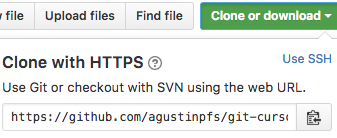
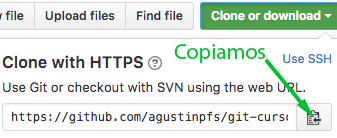
update articles

Changed region(s): [[0.5045, 0.3188, 0.9496, 0.8406]]

diff --git a/articles/git/localhost/fork-repo.md b/articles/git/localhost/fork-repo.md
@@ -9,10 +9,10 @@
 
 #Fork un repositorio.
 
-==Fork copia cualquier repositorio público de Github a nuestra cuenta. 
+==Fork copia cualquier repositorio público de GitHub en nuestra cuenta. 
 Este se agregará a nuestra lista de repositorios en GitHub.==
 
-Fork nos permite trabajar sobre cualquier repositorio público de Github, sin afectar el original.
+Fork nos permite trabajar sobre cualquier repositorio público de GitHub, sin afectar el original.
 
 ![alt](http://localhost:2368/assets/images/fork-git.png)
 
@@ -22,24 +22,27 @@ La **diferencia entre fork y clone** es que fork es una copia de un repositorio 
 Fork nos permite editar cualquier proyecto con las herramientas de colaboración que nos ofrece GitHub. Por ejemplo trabajar remotamente con miembros de nuestro equipo sobre cualquier proyecto público y proponer cambios haciendo [pull requests](http://localhost:2368/pull-request).
 
 
-
+<a name="ejemplo"></a>
 ###Mantener actualizado nuestro repositorio fork con el original(upstream).
 
-Para mantener actualizado nuestro fork, primero conectamos nuestro repo local con el original a través del comando:
+>`upstream` es el nombre que se le da al repositorio original a la hora de conectarlo con nuestro repositorio.
 
+Suponte que has hecho un clon del repositorio fork en tu computadora y estás trabajando en el proyecto.
 
-`git remote add upstream [url HTTPS o SSH del repositorio original]`
+Con `git remote add upstream [url HTTPS o SSH del repositorio original]` conectarás tu repositorio con el original. 
+
 <small>- Para usar SSH [genera la clave](http://localhost:2368/ssh-https-conexion-github) -</small>
 
+De esta manera con el comando `git fetch upstream` podrás saber si hubo cambios en el original. Si los hubo, con `git merge upstream/master` los puedes fusionar con tu repositorio.
 
-`upstream` es el nombre que se le da al repositorio original a la hora de hacer la conexión.
+Cuando subas tu cambios a GitHub con `git push origin master` tu repositorio fork estará actualizado.
 
 >Una conexión con `upstream` permite descargar los cambios efectuados en el repositorio original pero no permite cargar datos. 
 Igual podemos proponer cambios haciéndolos en nuestro fork y luego enviando un [pull requests](http://localhost:2368/pull-request).
 
 <br>
 
-###Ejemplo práctico:
+###Ejemplo práctico fork y upstream:
 
 Primero haces un fork al repositorio de nuestro ejemplo dándole al botón "fork".
 
@@ -51,15 +54,14 @@ Luego lo [clonas](http://localhost:2368/clonar-un-repositorio) en tu computadora
 
 `git clone https://github.com/tuNombreUsuario/practicasGit.git`
 
-Lo conectas con tu repositorio "fork"
 
-`git remote add origin https://github.com/tuNombreUsuario/practicasGit.git`
+Ya estás conectado con tu repositorio fork (origin).
 
-Ahora lo conectas con el original:
+Ahora lo conectas con el repositorio original (upstream):
 
 `git remote add upstream https://github.com/Pandawebs/practicasGit.git`
 
-Verificamos si se ha guardado las conexiones `origin` y `upstream`:
+Verificamos si se ha guardado las conexiones `origin` y `upstream` con:
 
 `git remote -v`
 
@@ -81,12 +83,9 @@ También podemos ver si ha habido cambios desde Github:
 
 ![alt](http://localhost:2368/assets/images/cambios-fork-original.png)
 
-
-
 Hacemos un merge si hubo cambios. Esto fusionará dichos cambios del repositorio original con nuestro repositorio local.
 
 `git merge upstream/master`
-
 
 Ya actualizado nuestro repositorio local podemos actualizar el fork de nuestra cuenta en GitHub:
 

diff --git a/articles/git/production/fork-repo.md b/articles/git/production/fork-repo.md
@@ -9,10 +9,10 @@
 
 #Fork un repositorio.
 
-==Fork copia cualquier repositorio público de Github a nuestra cuenta. 
+==Fork copia cualquier repositorio público de GitHub en nuestra cuenta. 
 Este se agregará a nuestra lista de repositorios en GitHub.==
 
-Fork nos permite trabajar sobre cualquier repositorio público de Github, sin afectar el original.
+Fork nos permite trabajar sobre cualquier repositorio público de GitHub, sin afectar el original.
 
 ![alt](http://pandawebs.net/assets/images/fork-git.png)
 
@@ -22,24 +22,27 @@ La **diferencia entre fork y clone** es que fork es una copia de un repositorio 
 Fork nos permite editar cualquier proyecto con las herramientas de colaboración que nos ofrece GitHub. Por ejemplo trabajar remotamente con miembros de nuestro equipo sobre cualquier proyecto público y proponer cambios haciendo [pull requests](http://pandawebs.net/pull-request).
 
 
-
+<a name="ejemplo"></a>
 ###Mantener actualizado nuestro repositorio fork con el original(upstream).
 
-Para mantener actualizado nuestro fork, primero conectamos nuestro repo local con el original a través del comando:
+>`upstream` es el nombre que se le da al repositorio original a la hora de conectarlo con nuestro repositorio.
 
+Suponte que has hecho un clon del repositorio fork en tu computadora y estás trabajando en el proyecto.
 
-`git remote add upstream [url HTTPS o SSH del repositorio original]`
+Con `git remote add upstream [url HTTPS o SSH del repositorio original]` conectarás tu repositorio con el original. 
+
 <small>- Para usar SSH [genera la clave](http://pandawebs.net/ssh-https-conexion-github) -</small>
 
+De esta manera con el comando `git fetch upstream` podrás saber si hubo cambios en el original. Si los hubo, con `git merge upstream/master` los puedes fusionar con tu repositorio.
 
-`upstream` es el nombre que se le da al repositorio original a la hora de hacer la conexión.
+Cuando subas tu cambios a GitHub con `git push origin master` tu repositorio fork estará actualizado.
 
 >Una conexión con `upstream` permite descargar los cambios efectuados en el repositorio original pero no permite cargar datos. 
 Igual podemos proponer cambios haciéndolos en nuestro fork y luego enviando un [pull requests](http://pandawebs.net/pull-request).
 
 <br>
 
-###Ejemplo práctico:
+###Ejemplo práctico fork y upstream:
 
 Primero haces un fork al repositorio de nuestro ejemplo dándole al botón "fork".
 
@@ -51,15 +54,14 @@ Luego lo [clonas](http://pandawebs.net/clonar-un-repositorio) en tu computadora:
 
 `git clone https://github.com/tuNombreUsuario/practicasGit.git`
 
-Lo conectas con tu repositorio "fork"
 
-`git remote add origin https://github.com/tuNombreUsuario/practicasGit.git`
+Ya estás conectado con tu repositorio fork (origin).
 
-Ahora lo conectas con el original:
+Ahora lo conectas con el repositorio original (upstream):
 
 `git remote add upstream https://github.com/Pandawebs/practicasGit.git`
 
-Verificamos si se ha guardado las conexiones `origin` y `upstream`:
+Verificamos si se ha guardado las conexiones `origin` y `upstream` con:
 
 `git remote -v`
 
@@ -81,12 +83,9 @@ También podemos ver si ha habido cambios desde Github:
 
 ![alt](http://pandawebs.net/assets/images/cambios-fork-original.png)
 
-
-
 Hacemos un merge si hubo cambios. Esto fusionará dichos cambios del repositorio original con nuestro repositorio local.
 
 `git merge upstream/master`
-
 
 Ya actualizado nuestro repositorio local podemos actualizar el fork de nuestra cuenta en GitHub:
 

diff --git a/articles/git/production/edit-pw.md b/articles/git/production/edit-pw.md
@@ -6,9 +6,9 @@
     <i>.</i>
   </div>
   <a href="http://pandawebs.net/git-github-elemental/">
-	  <div class="post-content_next-right">
-	    <p>Curso elemental de Git y GitHub</p>	    
-	  </div>
+    <div class="post-content_next-right">
+      <p>Curso elemental de Git y GitHub</p>      
+    </div>
   </a>
 </div>
 
@@ -101,7 +101,11 @@ del repositorio en nuestra cuenta.
 
 ![alt](http://pandawebs.net/assets/images/forked-PR-2.png)
 
-**3)** Abrimos la terminal en el directorio que vayamos a trabajar y lo clonamos:
+**3)** Copiamos la dirección url. Abrimos la terminal en el directorio que vayamos a trabajar y lo clonamos:
+
+Copiamos la dirección HTTPS o SSH [generar la clave SSH](http://pandawebs.net/ssh-https-conexion-github/ " target="_blank).
+
+![alt](http://pandawebs.net/assets/images/clonar-un-repositorio.png)
 
 `git clone https://github.com/tuCuenta/Tutoriales-Javascript.git`
 
@@ -115,26 +119,21 @@ del repositorio en nuestra cuenta.
 
 `cd Tutoriales-Javascript`
 
-**4)** Conectamos:
-
-`git remote add upstream https://github.com/Pandawebs/Tutoriales-Javascript.git`
-
-`git remote add origin https://github.com/tuCuenta/Tutoriales-Javascript.git`
 
 **5)** Creamos una rama. La llamaremos "propuesta-js":
 
 `git branch propuesta-js`
 
 
-**5)** Nos cambiamos a la nueva rama:
+**6)** Nos cambiamos a la nueva rama:
 
 `git checkout propuesta-js`
 
-**6)** Abrimos el archivo del artículo en nuestro editor de código y lo editamos.
+**7)** Abrimos el archivo del artículo en nuestro editor de código y lo editamos.
 
 ![alt](http://pandawebs.net/assets/images/editor-edit-pw.png)
 
-Lo guardamos y vamos a la terminal:
+Lo guardamos y volvemos a la terminal:
 
 Escribimos:
 
@@ -142,7 +141,7 @@ Escribimos:
 
 `git commit -m "actualizamos artículo javascript"`
 
-**7)** Subimos la nueva rama con los cambios al fork:
+**8)** Subimos la nueva rama con los cambios al fork:
 
 `git push origin propuesta-js`
 
@@ -150,17 +149,19 @@ Si usamos conexión HTTPS nos pedirá nombre de usuario y contraseña de GitHub.
 
 <small>Usar SSH [genera la clave](http://pandawebs.net/ssh-https-conexion-github).</small>
 
+**Ver:** [Mantener actualizado nuestro repositorio fork con el original(upstream)](http://pandawebs.net/fork-un-repositorio/#ejemplo)
 
+<br>
 
-###En Github 
+### Seguimos en GitHub 
 
-**8)** Elegimos la rama en la que hicimos el cambio para proponer.
+**9)** Elegimos la rama en la que hicimos el cambio para proponer.
 
 ![alt](http://pandawebs.net/assets/images/PR-elegir-rama-2.png)
 
 
 
-**9)** A la derecha del desplegable branch click a "new pull request"
+**10)** A la derecha del desplegable branch click a "new pull request"
 
 ![alt](http://pandawebs.net/assets/images/PR-nuevo-2.png)
 
@@ -172,7 +173,7 @@ Si usamos conexión HTTPS nos pedirá nombre de usuario y contraseña de GitHub.
 
 
 
-**10)** Ponemos título y descripción(opcional) a nuestro pull request y le damos click a
+**11)** Ponemos título y descripción(opcional) a nuestro pull request y le damos click a
 "Create pull request". 
 
 ![alt](http://pandawebs.net/assets/images/comment-pull-request.png)

diff --git a/articles/git/localhost/edit-pw.md b/articles/git/localhost/edit-pw.md
@@ -101,7 +101,11 @@ del repositorio en nuestra cuenta.
 
 ![alt](http://localhost:2368/assets/images/forked-PR-2.png)
 
-**3)** Abrimos la terminal en el directorio que vayamos a trabajar y lo clonamos:
+**3)** Copiamos la dirección url. Abrimos la terminal en el directorio que vayamos a trabajar y lo clonamos:
+
+Copiamos la dirección HTTPS o SSH [generar la clave SSH](http://localhost:2368/ssh-https-conexion-github/ " target="_blank).
+
+![alt](http://localhost:2368/assets/images/clonar-un-repositorio.png)
 
 `git clone https://github.com/tuCuenta/Tutoriales-Javascript.git`
 
@@ -115,26 +119,21 @@ del repositorio en nuestra cuenta.
 
 `cd Tutoriales-Javascript`
 
-**4)** Conectamos:
-
-`git remote add upstream https://github.com/Pandawebs/Tutoriales-Javascript.git`
-
-`git remote add origin https://github.com/tuCuenta/Tutoriales-Javascript.git`
 
 **5)** Creamos una rama. La llamaremos "propuesta-js":
 
 `git branch propuesta-js`
 
 
-**5)** Nos cambiamos a la nueva rama:
+**6)** Nos cambiamos a la nueva rama:
 
 `git checkout propuesta-js`
 
-**6)** Abrimos el archivo del artículo en nuestro editor de código y lo editamos.
+**7)** Abrimos el archivo del artículo en nuestro editor de código y lo editamos.
 
 ![alt](http://localhost:2368/assets/images/editor-edit-pw.png)
 
-Lo guardamos y vamos a la terminal:
+Lo guardamos y volvemos a la terminal:
 
 Escribimos:
 
@@ -142,7 +141,7 @@ Escribimos:
 
 `git commit -m "actualizamos artículo javascript"`
 
-**7)** Subimos la nueva rama con los cambios al fork:
+**8)** Subimos la nueva rama con los cambios al fork:
 
 `git push origin propuesta-js`
 
@@ -150,17 +149,19 @@ Si usamos conexión HTTPS nos pedirá nombre de usuario y contraseña de GitHub.
 
 <small>Usar SSH [genera la clave](http://localhost:2368/ssh-https-conexion-github).</small>
 
+**Ver:** [Mantener actualizado nuestro repositorio fork con el original(upstream)](http://localhost:2368/fork-un-repositorio/#ejemplo)
 
+<br>
 
-###En Github 
+### Seguimos en GitHub 
 
-**8)** Elegimos la rama en la que hicimos el cambio para proponer.
+**9)** Elegimos la rama en la que hicimos el cambio para proponer.
 
 ![alt](http://localhost:2368/assets/images/PR-elegir-rama-2.png)
 
 
 
-**9)** A la derecha del desplegable branch click a "new pull request"
+**10)** A la derecha del desplegable branch click a "new pull request"
 
 ![alt](http://localhost:2368/assets/images/PR-nuevo-2.png)
 
@@ -172,7 +173,7 @@ Si usamos conexión HTTPS nos pedirá nombre de usuario y contraseña de GitHub.
 
 
 
-**10)** Ponemos título y descripción(opcional) a nuestro pull request y le damos click a
+**11)** Ponemos título y descripción(opcional) a nuestro pull request y le damos click a
 "Create pull request". 
 
 ![alt](http://localhost:2368/assets/images/comment-pull-request.png)
